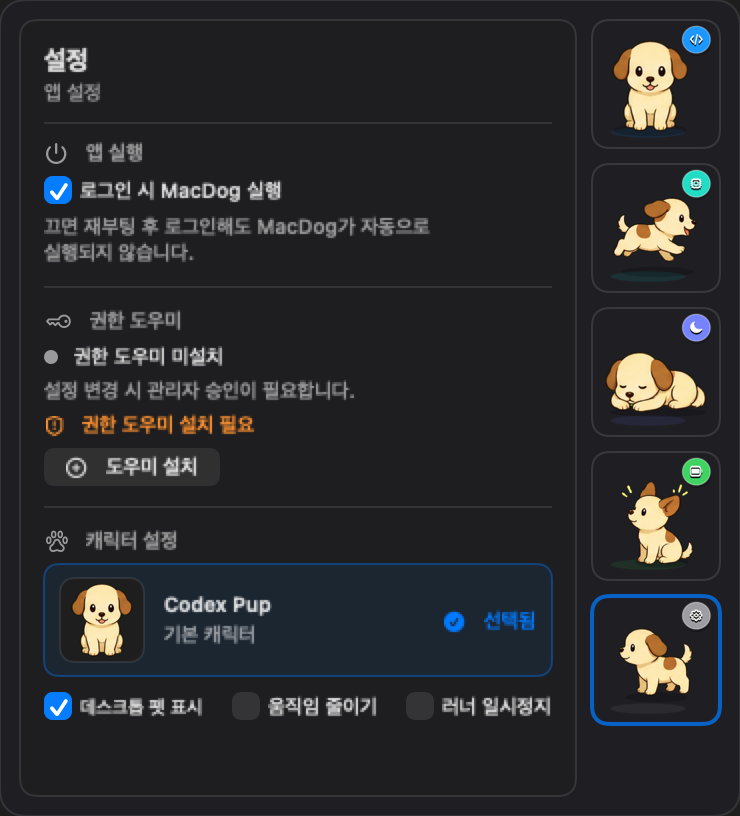
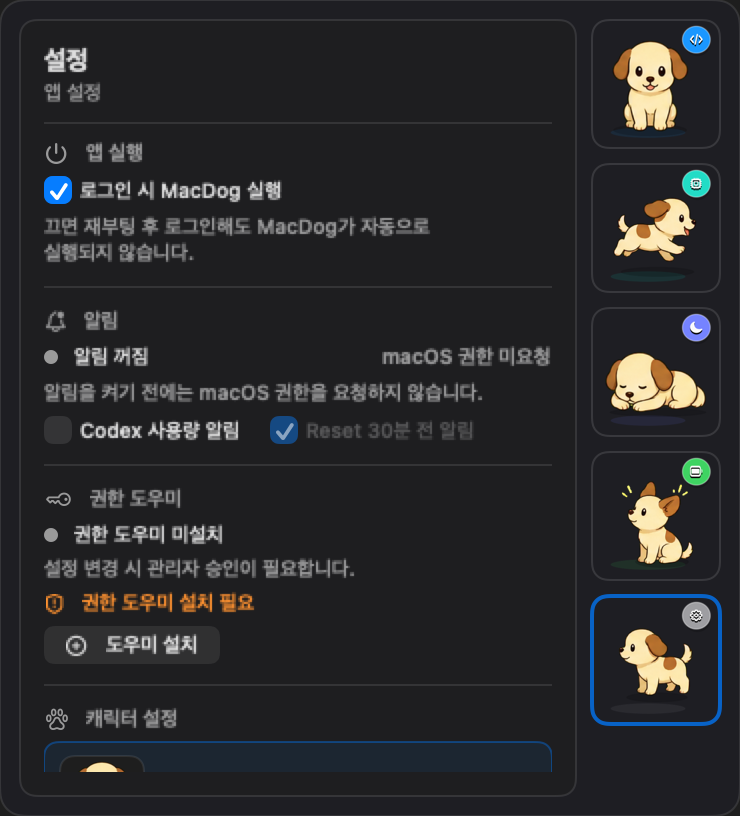
feat: polish Codex tab usage summary

diff --git a/Sources/MacDog/Popover/CodexUsagePanel.swift b/Sources/MacDog/Popover/CodexUsagePanel.swift
@@ -6,10 +6,21 @@ struct CodexUsagePanel: View {
 
     var body: some View {
         VStack(alignment: .leading, spacing: 12) {
-            if let limit = state.codexLimit {
-                VStack(alignment: .leading, spacing: 12) {
-                    UsageRow(title: "5시간", window: limit.fiveHour)
-                    UsageRow(title: "주간", window: limit.weekly)
+            if let limit = state.codexLimit,
+               let summary = state.codexPanelSummary(now: resetSummaryNow) {
+                CodexUsageSummaryBlock(summary: summary, phase: state.phase)
+
+                VStack(alignment: .leading, spacing: 8) {
+                    UsageRow(
+                        title: "5시간",
+                        window: limit.fiveHour,
+                        resetSummary: resetSummary(at: 0, in: summary)
+                    )
+                    UsageRow(
+                        title: "주간",
+                        window: limit.weekly,
+                        resetSummary: resetSummary(at: 1, in: summary)
+                    )
                 }
 
                 Divider()
@@ -20,18 +31,6 @@ struct CodexUsagePanel: View {
                     currentReport: state.report,
                     currentTimestamp: state.cacheSnapshot?.cachedAt ?? state.report?.generatedAt
                 )
-
-                if let message = state.highUsageMessage {
-                    PressureBanner(message: message, phase: state.phase)
-                }
-
-                Divider()
-
-                Grid(alignment: .leading, horizontalSpacing: 12, verticalSpacing: 6) {
-                    metadataRow("플랜", limit.planType ?? "알 수 없음")
-                    metadataRow("갱신", state.lastUpdatedSummary)
-                    resetMetadataRow(limit.weekly)
-                }
             } else if state.isRefreshing {
                 HStack(spacing: 8) {
                     ProgressView()
@@ -56,33 +55,9 @@ struct CodexUsagePanel: View {
         }
     }
 
-    private func metadataRow(_ key: String, _ value: String) -> some View {
-        GridRow {
-            Text(key)
-                .foregroundStyle(.secondary)
-            Text(value)
-                .lineLimit(2)
-                .fixedSize(horizontal: false, vertical: true)
-        }
-        .font(.caption)
-    }
-
-    private func resetMetadataRow(_ window: UsageWindowReport?) -> some View {
-        metadataRow("초기화", resetMetadataValue(window))
-    }
-
-    private func resetMetadataValue(_ window: UsageWindowReport?) -> String {
-        let summary = UsageWindowStatus.resetSummary(
-            resetsAt: window?.resetsAt,
-            now: resetSummaryNow
-        )
-        if summary.hasPrefix("초기화까지 ") {
-            return String(summary.dropFirst("초기화까지 ".count))
-        }
-        if summary.hasPrefix("초기화 ") {
-            return String(summary.dropFirst("초기화 ".count))
-        }
-        return summary
+    private func resetSummary(at index: Int, in summary: CodexUsagePanelSummary) -> String? {
+        guard summary.resetCountdowns.indices.contains(index) else { return nil }
+        return summary.resetCountdowns[index].value
     }
 
     private var resetSummaryNow: Date {
@@ -92,5 +67,71 @@ struct CodexUsagePanel: View {
             return Date()
         }
         return Date(timeIntervalSince1970: TimeInterval(report.generatedAt))
+    }
+}
+
+private struct CodexUsageSummaryBlock: View {
+    let summary: CodexUsagePanelSummary
+    let phase: UsagePressurePhase
+
+    var body: some View {
+        HStack(alignment: .top, spacing: 6) {
+            Image(systemName: systemImage)
+                .font(.caption.weight(.semibold))
+                .frame(width: 14)
+
+            VStack(alignment: .leading, spacing: 3) {
+                Text(summary.statusTitle)
+                    .font(.caption.weight(.semibold))
+                Text(summary.statusDetail)
+                    .font(.caption2)
+                    .foregroundStyle(.secondary)
+                    .lineLimit(1)
+                    .minimumScaleFactor(0.85)
+                Text(summary.notificationThresholdSummary)
+                    .font(.caption2)
+                    .foregroundStyle(.secondary)
+                    .lineLimit(1)
+                    .minimumScaleFactor(0.85)
+            }
+
+            Spacer(minLength: 0)
+        }
+        .foregroundStyle(tint)
+        .padding(.vertical, 6)
+        .padding(.horizontal, 8)
+        .background(
+            RoundedRectangle(cornerRadius: 6)
+                .fill(tint.opacity(0.12))
+        )
+        .overlay(
+            RoundedRectangle(cornerRadius: 6)
+                .stroke(tint.opacity(0.24), lineWidth: 1)
+        )
+        .accessibilityElement(children: .combine)
+    }
+
+    private var systemImage: String {
+        switch phase {
+        case .limit:
+            "exclamationmark.octagon.fill"
+        case .fast, .sprint:
+            "exclamationmark.triangle.fill"
+        case .calm, .active:
+            "gauge.with.dots.needle.33percent"
+        }
+    }
+
+    private var tint: Color {
+        switch phase {
+        case .calm:
+            .secondary
+        case .active:
+            .accentColor
+        case .fast:
+            .orange
+        case .sprint, .limit:
+            .red
+        }
     }
 }

diff --git a/Sources/MacDog/UsageMonitorState.swift b/Sources/MacDog/UsageMonitorState.swift
@@ -159,24 +159,24 @@ struct UsageMonitorState: Equatable {
         }
     }
 
-    var highUsageMessage: String? {
-        if phase == .limit {
-            if let status = selectedWindowStatus {
-                return "한도 도달 · \(status.summary)"
-            }
-            return "한도 도달"
-        }
-
-        guard let status = selectedWindowStatus else { return nil }
-
-        switch phase {
-        case .fast:
-            return "사용량 높음 · \(status.summary)"
-        case .sprint:
-            return "한도 임박 · \(status.remainingSummary)"
-        case .calm, .active, .limit:
+    func codexPanelSummary(
+        now: Date = Date(),
+        calendar: Calendar = .current
+    ) -> CodexUsagePanelSummary? {
+        guard let limit = codexLimit,
+              let status = selectedWindowStatus else {
             return nil
         }
+
+        return CodexUsagePanelSummary(
+            statusTitle: phase.statusLabel,
+            statusDetail: "기준 \(status.summary)",
+            notificationThresholdSummary: Self.notificationThresholdSummary,
+            resetCountdowns: [
+                resetCountdown(label: "5시간", window: limit.fiveHour, now: now, calendar: calendar),
+                resetCountdown(label: "주간", window: limit.weekly, now: now, calendar: calendar)
+            ]
+        )
     }
 
     var isStale: Bool {
@@ -222,6 +222,59 @@ struct UsageMonitorState: Equatable {
         }
         return String(format: "%.1f", value)
     }
+
+    private static var notificationThresholdSummary: String {
+        let resetSoonMinutes = Int(UsageNotificationPolicy.resetSoonLeadTime / 60)
+        let thresholds = [
+            percent(UsageNotificationPolicy.highUsageThresholdPercent),
+            percent(UsageNotificationPolicy.approachingLimitThresholdPercent),
+            percent(UsageNotificationPolicy.limitReachedThresholdPercent)
+        ].joined(separator: "/")
+        return "알림 기준 \(thresholds)% · reset \(resetSoonMinutes)분 전"
+    }
+
+    private func resetCountdown(
+        label: String,
+        window: UsageWindowReport?,
+        now: Date,
+        calendar: Calendar
+    ) -> CodexUsagePanelSummary.ResetCountdown {
+        CodexUsagePanelSummary.ResetCountdown(
+            label: "\(label) reset",
+            value: Self.resetCountdownValue(window, now: now, calendar: calendar)
+        )
+    }
+
+    private static func resetCountdownValue(
+        _ window: UsageWindowReport?,
+        now: Date,
+        calendar: Calendar
+    ) -> String {
+        let summary = UsageWindowStatus.resetSummary(
+            resetsAt: window?.resetsAt,
+            now: now,
+            calendar: calendar
+        )
+        if summary.hasPrefix("초기화까지 ") {
+            return String(summary.dropFirst("초기화까지 ".count))
+        }
+        if summary.hasPrefix("초기화 ") {
+            return String(summary.dropFirst("초기화 ".count))
+        }
+        return summary
+    }
+}
+
+struct CodexUsagePanelSummary: Equatable {
+    struct ResetCountdown: Equatable {
+        let label: String
+        let value: String
+    }
+
+    let statusTitle: String
+    let statusDetail: String
+    let notificationThresholdSummary: String
+    let resetCountdowns: [ResetCountdown]
 }
 
 enum PetStatusReaction: Equatable {

diff --git a/Tests/MacDogTests/UsageMonitorStateTests.swift b/Tests/MacDogTests/UsageMonitorStateTests.swift
@@ -103,6 +103,55 @@ final class UsageMonitorStateTests: XCTestCase {
         )
     }
 
+    func testCodexPanelSummaryConnectsRiskResetsAndNotificationThresholds() throws {
+        let now = Date(timeIntervalSince1970: 1_800_000_000)
+        let state = UsageMonitorState(
+            report: Self.report(
+                fiveHourUsedPercent: 83.5,
+                weeklyUsedPercent: 36,
+                fiveHourResetsAt: 1_800_007_200,
+                weeklyResetsAt: 1_800_345_600
+            ),
+            cacheSnapshot: nil,
+            errorMessage: nil,
+            displayBasis: .max
+        )
+
+        let summary = try XCTUnwrap(state.codexPanelSummary(now: now, calendar: Self.utcCalendar))
+
+        XCTAssertEqual(summary.statusTitle, "사용량 높음")
+        XCTAssertEqual(summary.statusDetail, "기준 5시간 83.5% 사용 / 16.5% 남음")
+        XCTAssertEqual(summary.notificationThresholdSummary, "알림 기준 80/95/100% · reset 30분 전")
+        XCTAssertEqual(
+            summary.resetCountdowns,
+            [
+                CodexUsagePanelSummary.ResetCountdown(label: "5시간 reset", value: "2시간 남음 · 10:00"),
+                CodexUsagePanelSummary.ResetCountdown(label: "주간 reset", value: "4일 남음 · 1/19 08:00")
+            ]
+        )
+    }
+
+    func testCodexPanelSummaryUsesLimitTitleWhenReportMarksLimitReached() throws {
+        let now = Date(timeIntervalSince1970: 1_800_000_000)
+        let state = UsageMonitorState(
+            report: Self.report(
+                fiveHourUsedPercent: 68,
+                weeklyUsedPercent: 42,
+                fiveHourResetsAt: 1_800_003_600,
+                weeklyResetsAt: 1_800_604_800,
+                rateLimitReachedType: "primary"
+            ),
+            cacheSnapshot: nil,
+            errorMessage: nil
+        )
+
+        let summary = try XCTUnwrap(state.codexPanelSummary(now: now, calendar: Self.utcCalendar))
+
+        XCTAssertEqual(summary.statusTitle, "한도 도달")
+        XCTAssertEqual(summary.statusDetail, "기준 5시간 68% 사용 / 32% 남음")
+        XCTAssertEqual(summary.resetCountdowns.first?.value, "1시간 남음 · 09:00")
+    }
+
     func testRefreshingPreservesPrivilegedHelperInstallSnapshot() {
         let snapshot = PrivilegedHelperInstallSnapshot(helperToolExists: true, launchDaemonExists: false)
         let state = UsageMonitorState(
@@ -666,20 +715,26 @@ final class UsageMonitorStateTests: XCTestCase {
         return calendar
     }
 
-    private static func report(fiveHourUsedPercent: Double, weeklyUsedPercent: Double) -> CodexUsageReport {
+    private static func report(
+        fiveHourUsedPercent: Double,
+        weeklyUsedPercent: Double,
+        fiveHourResetsAt: Int? = nil,
+        weeklyResetsAt: Int? = nil,
+        rateLimitReachedType: String? = nil
+    ) -> CodexUsageReport {
         let fiveHour = UsageWindowReport(
             kind: .fiveHour,
             usedPercent: fiveHourUsedPercent,
             remainingPercent: 100 - fiveHourUsedPercent,
             windowDurationMins: 300,
-            resetsAt: nil
+            resetsAt: fiveHourResetsAt
         )
         let weekly = UsageWindowReport(
             kind: .weekly,
             usedPercent: weeklyUsedPercent,
             remainingPercent: 100 - weeklyUsedPercent,
             windowDurationMins: 10_080,
-            resetsAt: nil
+            resetsAt: weeklyResetsAt
         )
         let limit = UsageLimitReport(
             limitId: "codex",
@@ -688,14 +743,14 @@ final class UsageMonitorStateTests: XCTestCase {
             secondary: weekly,
             credits: nil,
             planType: "pro",
-            rateLimitReachedType: nil
+            rateLimitReachedType: rateLimitReachedType
         )
         return CodexUsageReport(
             generatedAt: 0,
             source: "test",
             planType: "pro",
             credits: nil,
-            rateLimitReachedType: nil,
+            rateLimitReachedType: rateLimitReachedType,
             limits: ["codex": limit]
         )
     }

diff --git a/Sources/MacDog/Popover/WeeklyRemainingHistoryViews.swift b/Sources/MacDog/Popover/WeeklyRemainingHistoryViews.swift
@@ -863,6 +863,17 @@ struct PressureBanner: View {
 struct UsageRow: View {
     let title: String
     let window: UsageWindowReport?
+    let resetSummary: String?
+
+    init(
+        title: String,
+        window: UsageWindowReport?,
+        resetSummary: String? = nil
+    ) {
+        self.title = title
+        self.window = window
+        self.resetSummary = resetSummary
+    }
 
     var body: some View {
         VStack(alignment: .leading, spacing: 5) {
@@ -878,6 +889,14 @@ struct UsageRow: View {
             RemainingUsageBar(value: progressValue, tint: tint)
                 .accessibilityLabel("\(title) 남은 사용량")
                 .accessibilityValue(summary)
+
+            if let resetSummary {
+                Text("reset \(resetSummary)")
+                    .font(.caption2)
+                    .foregroundStyle(.secondary)
+                    .lineLimit(1)
+                    .minimumScaleFactor(0.85)
+            }
 
         }
     }